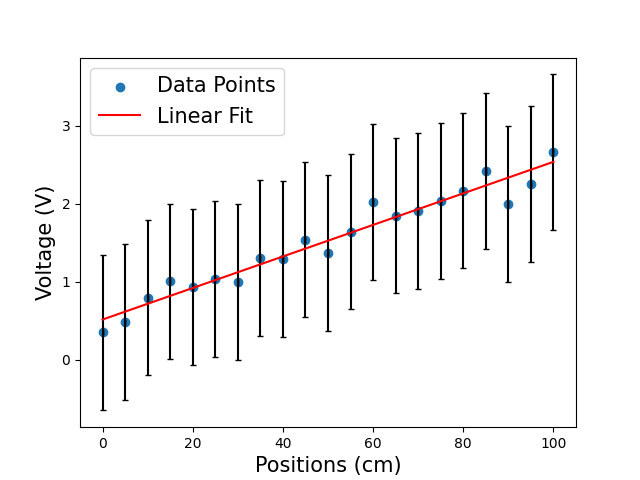
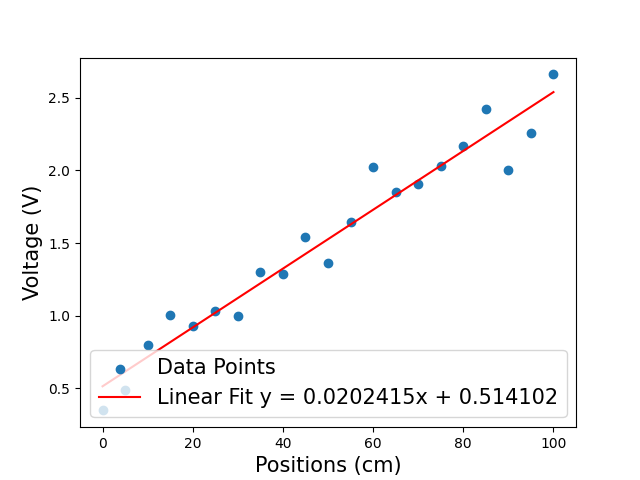
Fixes

diff --git a/Problem_Set_3/Problem_1/Problem_1.cpp b/Problem_Set_3/Problem_1/Problem_1.cpp
@@ -85,15 +85,17 @@ double NewtonRaphsonMethod(double (*F)(double), double x_i, int iterations=10)
         temp = x_i;
         x_i = temp - (F(temp)) / CD(temp, 0.01, F);
     }
-
     return x_i; 
-
-    
 }
 
 double F(double x)
 {
     return cos(x) - 0.25;
+}
+
+double G(double x)
+{
+    return (x-1)*(x-1)*(x-1);
 }
 
 
@@ -106,19 +108,21 @@ int main()
     LINEBREAK;
     std::cout << "Bisection Method" << std::endl;
     LINEBREAK;
+
     
     printElement("Iteration");
     printElement("Abs_True_Error");
-    printElement("Abs_Approx_Error");
+    printElement("Abs_Relative_True_Error");
     std::cout << "\n\n";
 
     double exact = 1.31811607165;
    
-    for (int i = 0; i <= 100; i++)
+   
+    for (int i = 0; i < 21; i++)
     {
         true_error = std::abs(BisectionMethod(F, 0, PI/2, i) - exact);
         rel_error = std::abs(BisectionMethod(F, 0, PI/2, i) - exact) / exact;
-        e_0 = std::abs(BisectionMethod(F, 0, PI/2, 0) - exact);
+        //e_0 = std::abs(BisectionMethod(F, 0, PI/2, 0) - exact);
 
         printElement(i);
         printElement(true_error);
@@ -126,7 +130,7 @@ int main()
 
         std::cout << std::endl;
 
-        bisect_data.push_back(std::abs(true_error / e_0));
+      
         
     }
 
@@ -139,21 +143,23 @@ int main()
 
     printElement("Iteration");
     printElement("Abs_True_Error");
-    printElement("Abs_Approx_Error");
+    printElement("Abs_Relative_True_Error");
     std::cout << "\n\n";
 
-    for (int i = 0; i <= 100; i++)
+    for (int i = 0; i < 21; i++)
     {
         true_error = std::abs(SecantMethod(F, 0, PI/2, i) - exact);
         rel_error = std::abs(SecantMethod(F, 0, PI/2, i) - exact) / exact;
-        e_0 = std::abs(SecantMethod(F, 0, PI/2, 0) - exact);
+       
+
+        //e_0 = std::abs(SecantMethod(F, 0, PI/2, 0) - exact);
 
         printElement(i);
         printElement(true_error);
         printElement(rel_error);
         std::cout << std::endl;
 
-        secant_data.push_back(std::abs(true_error / e_0));
+      
         
     }
     std::cout << '\n';
@@ -166,24 +172,55 @@ int main()
     printElement("Abs_Relative_True_Error");
     std::cout << "\n\n";
 
-    for (int i = 0; i <= 100; i++)
+    for (int i = 0; i < 21; i++)
     {
         true_error = std::abs(NewtonRaphsonMethod(F, PI/2, i) - exact);
         rel_error = std::abs(NewtonRaphsonMethod(F, PI/2, i) - exact) / exact;
-        e_0 = std::abs(NewtonRaphsonMethod(F, PI/2, 0) - exact);
+        //e_0 = std::abs(NewtonRaphsonMethod(F, PI/2, 0) - exact);
 
         printElement(i);
         printElement(true_error);
         printElement(rel_error);
         std::cout << std::endl;
 
-        newtonrapson_data.push_back(std::abs(true_error / e_0));
+      
     }
+
+    //Part (c) ----------------------------------------------------------------------
+    int iterations = 50;
+    e_0 = PI/2 - exact;
+
+    for (int i = 0; i < iterations; i++)
+        {
+            true_error = std::abs(BisectionMethod(F, 0, PI/2, i) - exact);
+            rel_error = std::abs(BisectionMethod(F, 0, PI/2, i) - exact) / exact;
+        
+            bisect_data.push_back(std::abs(true_error / e_0));
+
+        }
+
+    for (int i = 0; i < iterations; i++)
+        {
+            true_error = std::abs(SecantMethod(F, 0, PI/2, i) - exact);
+            rel_error = std::abs(SecantMethod(F, 0, PI/2, i) - exact) / exact;
+        
+            secant_data.push_back(std::abs(true_error / e_0));
+
+        }
+
+    for (int i = 0; i < iterations; i++)
+        {
+            true_error = std::abs(NewtonRaphsonMethod(F, PI/2, i) - exact);
+            rel_error = std::abs(NewtonRaphsonMethod(F, PI/2, i) - exact) / exact;
+
+            newtonrapson_data.push_back(std::abs(true_error / e_0));
+        }
+
 
     std::ofstream output("data.csv");
     
     output << "index" << ',' << "bisect" << ',' << "secant" << ',' << "newtonrapson" << std::endl;
-    for (int i = 0; i <= 100; i++)
+    for (int i = 0; i < bisect_data.size(); i++)
     {
         output << i << ',' << bisect_data.at(i) << ',' << secant_data.at(i) << ',' << newtonrapson_data.at(i) << std::endl;
     }

diff --git a/Problem_Set_3/Problem_3/plot.py b/Problem_Set_3/Problem_3/plot.py
@@ -15,11 +15,8 @@ x = data[:,0]
 y = data[:,1]
 
 ax.scatter(x, y, label="Data Points")
-ax.errorbar(x=x, y=y, xerr=0, yerr=1.0, maker=None, capsize=2, fmt=' ', color='black')
 
-#plt.errorbar(x=x, y=y, xerr=0, yerr=yerr, marker=None, capsize=2, fmt='^', color='black')
-
-ax.plot(x, f(x), color='red', label="Linear Fit")
+ax.plot(x, f(x), color='red', label="Linear Fit y = 0.0202415x + 0.514102")
 
 plt.xlabel("Positions (cm)", fontsize=15)
 plt.ylabel("Voltage (V)", fontsize=15)

diff --git a/Problem_Set_3/Problem_1/plot.py b/Problem_Set_3/Problem_1/plot.py
@@ -18,7 +18,7 @@ ax.plot(x,y1, label='Secant')
 ax.plot(x,y2, label='Newton-Rapson')
 
 ax.set_xlabel('Iterations', fontsize=20)
-ax.set_ylabel('$|\\frac{\\in_{n}}{\\in_{0}}|$', fontsize=20)
+ax.set_ylabel('$\log_{10}\left(|\\frac{\\in_{n}}{\\in_{0}}|\\right)$', fontsize=20)
 ax.set_yscale('log', base=10)
 ax.legend(fontsize=20)
 plt.show()
